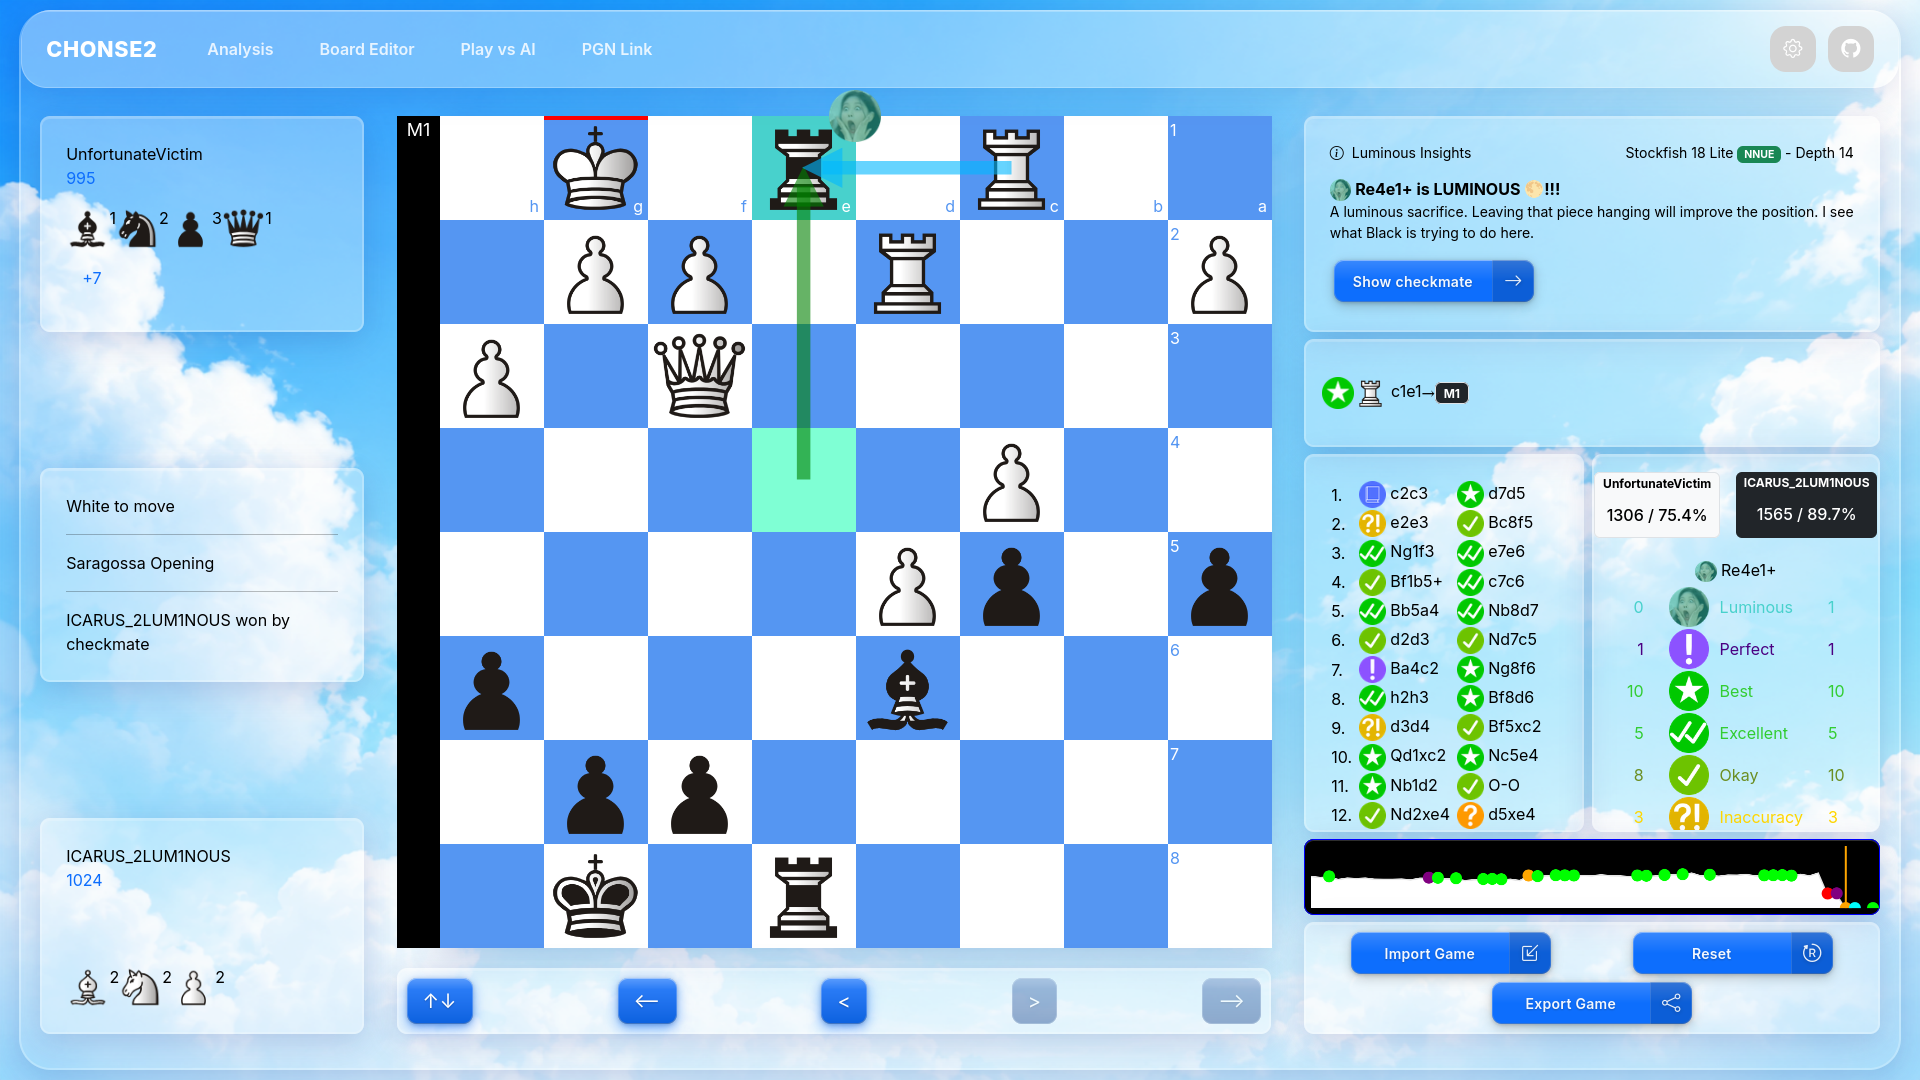
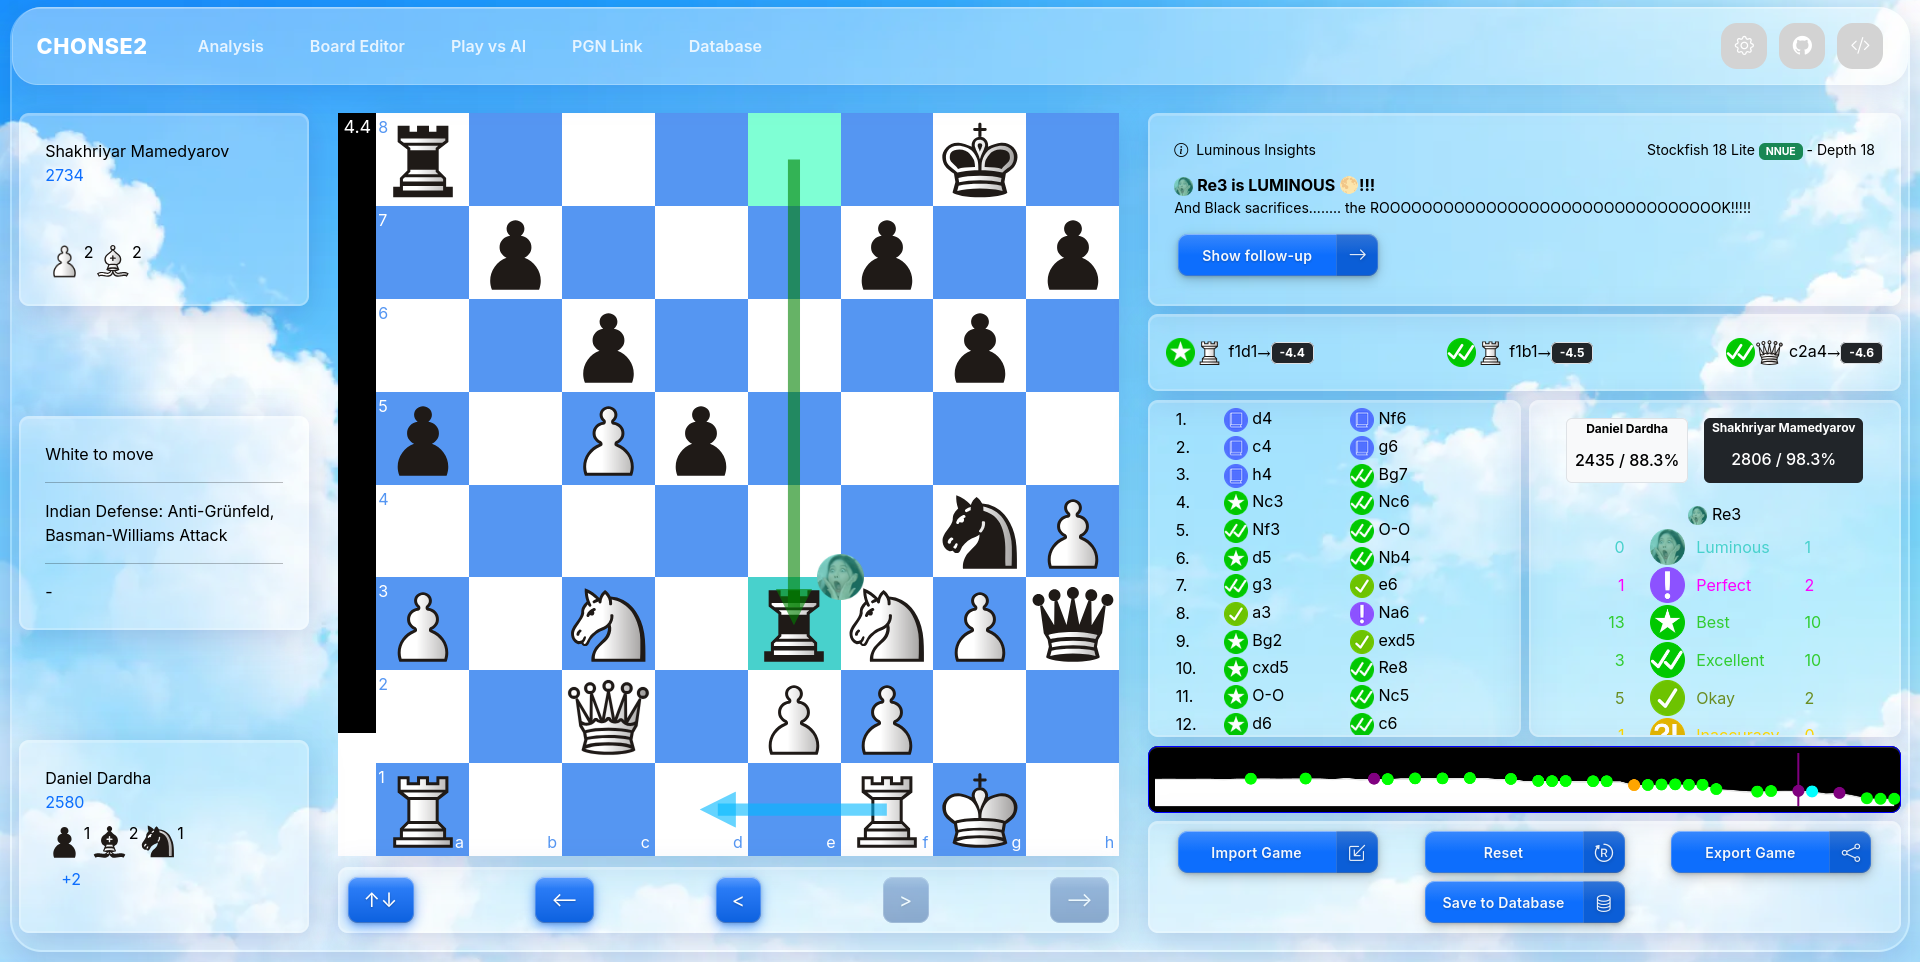
update readme

diff --git a/README.md b/README.md
@@ -48,4 +48,7 @@ Run dev server
 ng serve --host=0.0.0.0
 ```
 
-Open [http://localhost:4200/chonse2/](http://localhost:4200/) in the browser.
+Open [http://localhost:4200/](http://localhost:4200/) in the browser.
+
+## Growing thanks to you <3
+<img width="303" height="123" alt="visits" src="https://github.com/user-attachments/assets/0d1f138f-18c1-4270-a3d0-08159736d0ed" />
